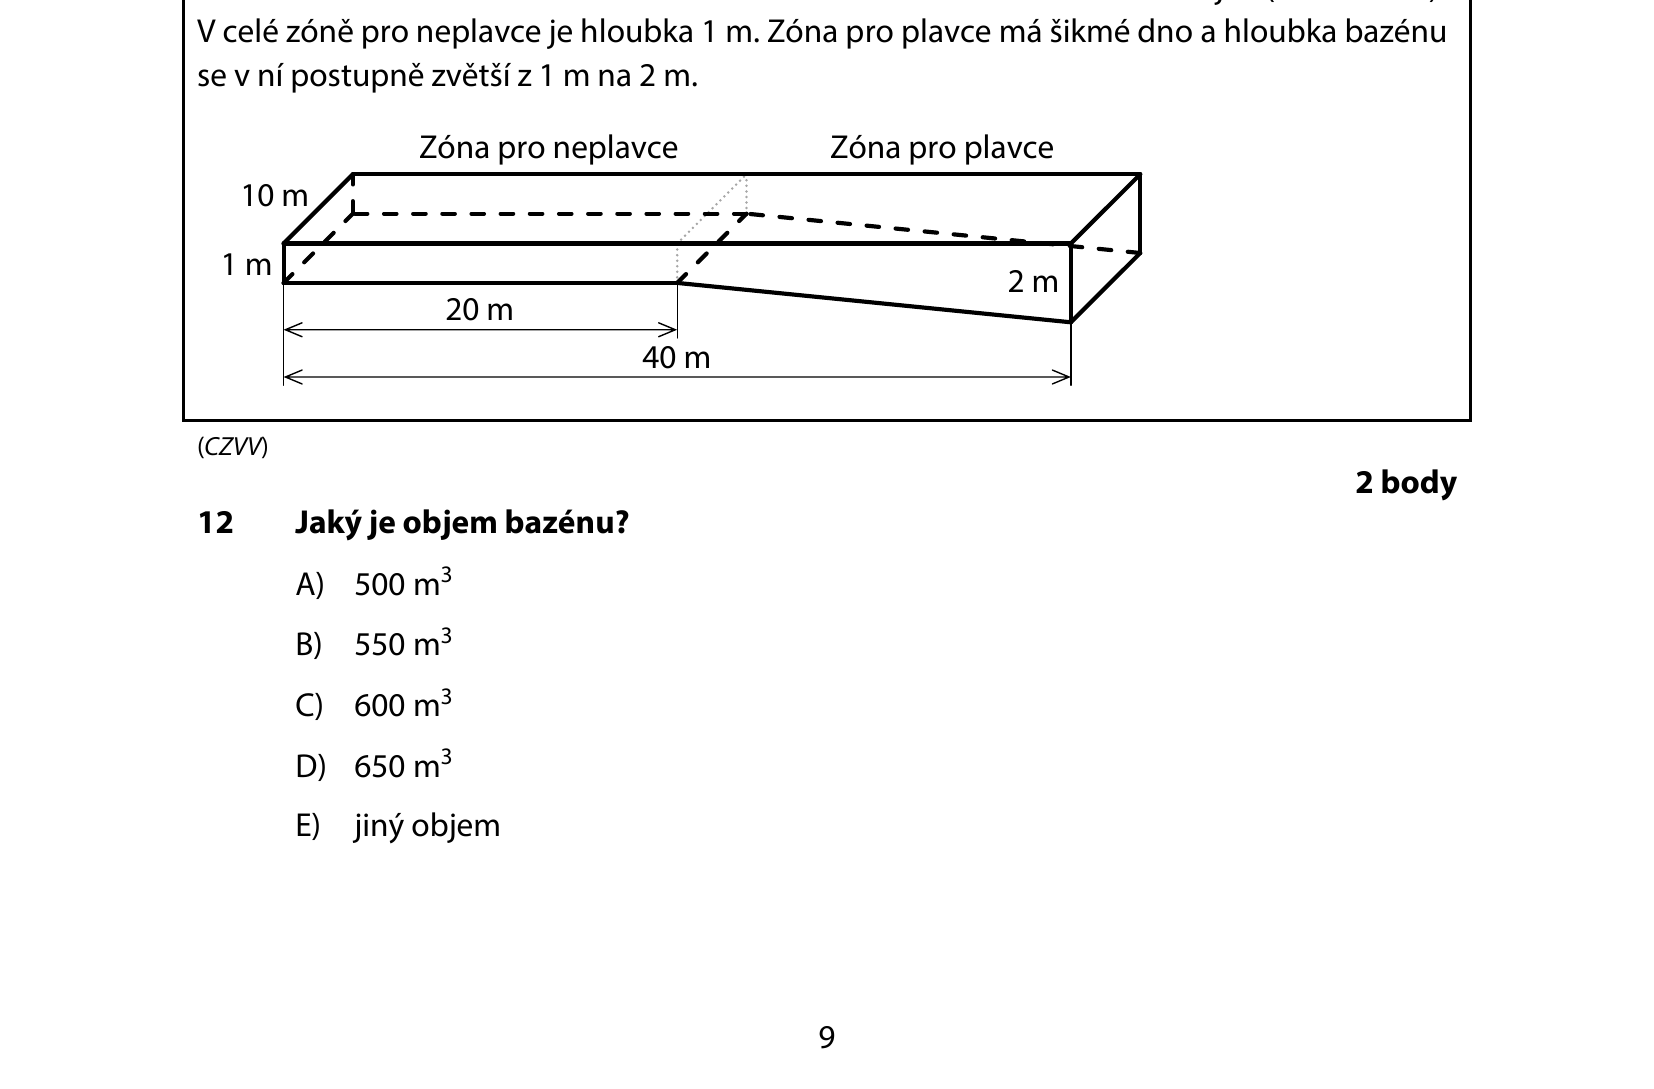
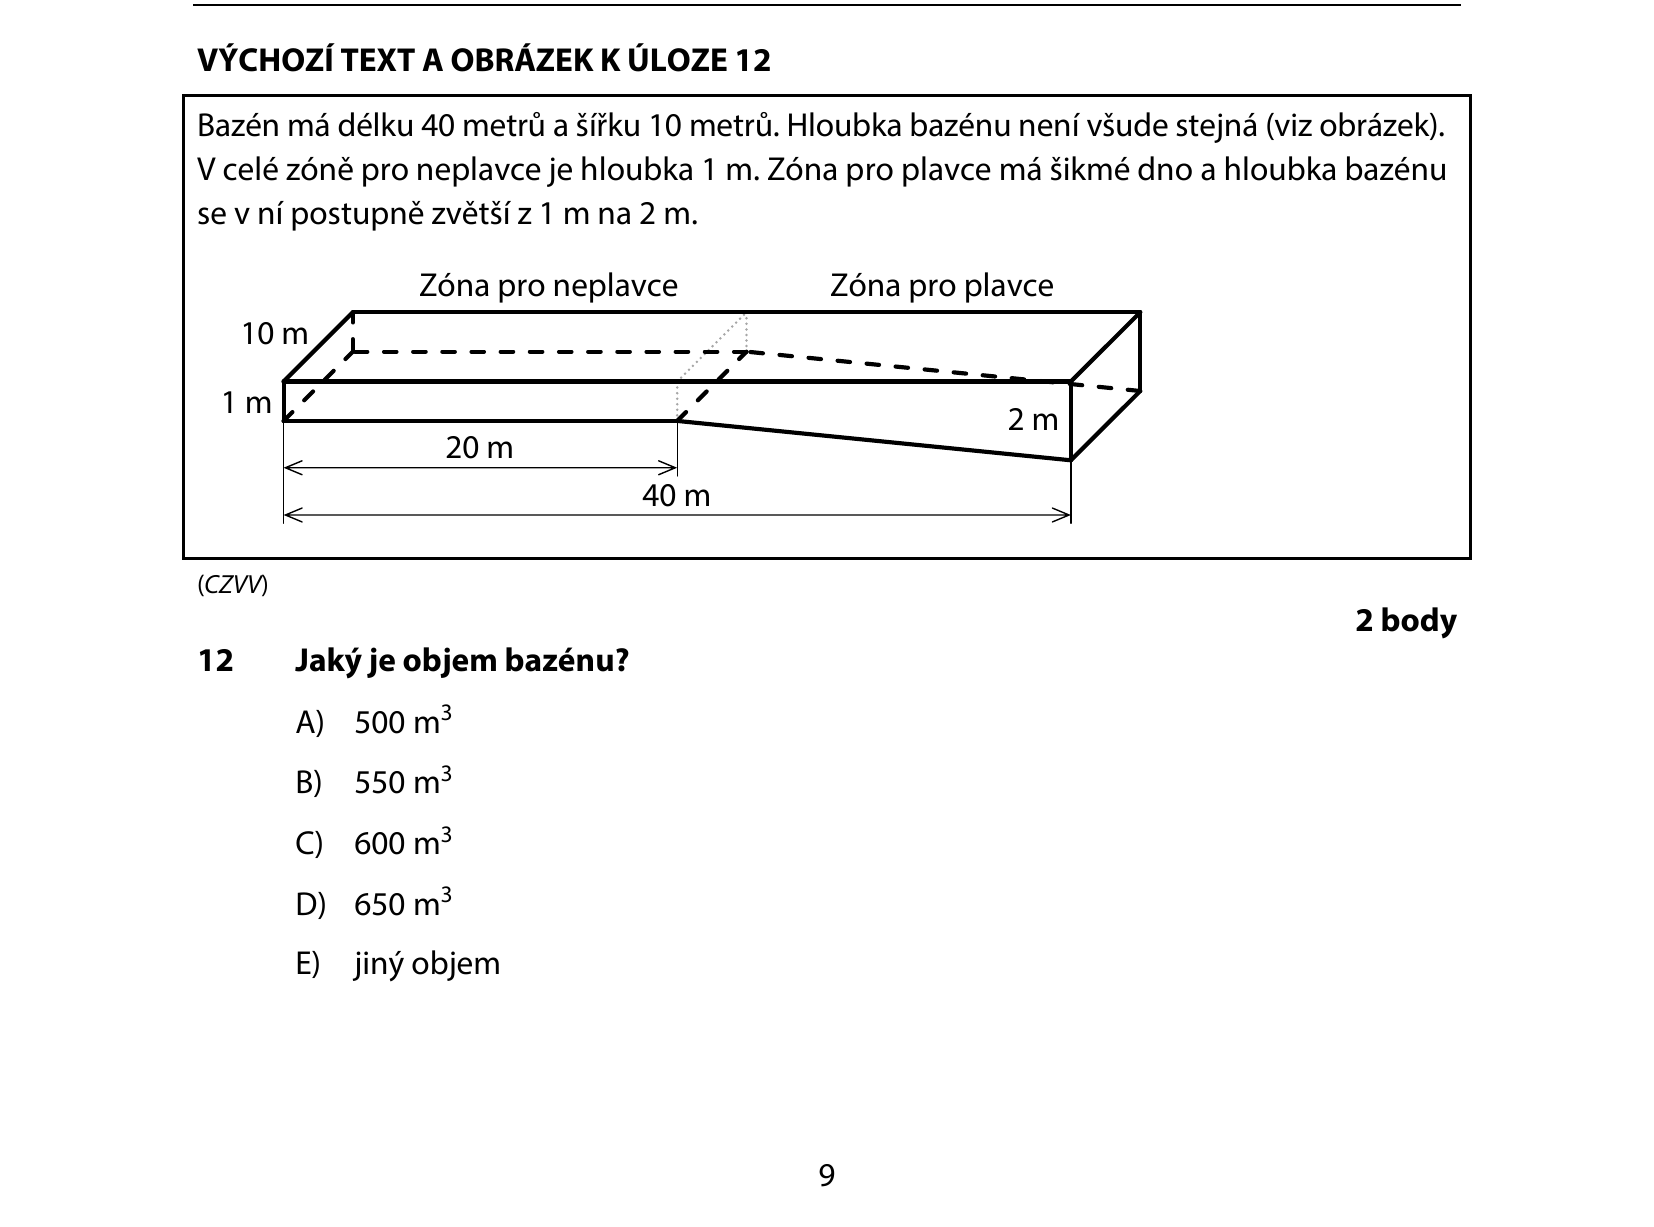
Fix crops for problems 11-14 and add findSplitRows() helper
Separator lines detected via pixel analysis:
- test-09: line at y=1116 → p11 h=1112, p12 y=1112 h=1227
- test-10: line at y=1061 → p13 h=1057, p14 y=1057 h=1282

Previous crops were off by ~150px (p11/13 too tall, p12/14 missing headers).

Also adds findSplitRows(imagePath) in seed script: reads raw pixel data,
finds rows where >60% of pixels are dark — these are the horizontal separator
lines CERMAT uses to divide problems on shared pages. Use this in future seed
scripts instead of manually guessing y-offsets.

diff --git a/scripts/seed-2025A.js b/scripts/seed-2025A.js
@@ -4,7 +4,7 @@
  * Crops pages using ImageMagick where multiple problems share a page.
  */
 import { execSync } from 'child_process';
-import { mkdirSync, existsSync } from 'fs';
+import { mkdirSync, existsSync, readFileSync } from 'fs';
 import path from 'path';
 import { fileURLToPath } from 'url';
 import { openDb, initDb } from '../server/db/schema.js';
@@ -28,6 +28,48 @@ function full(srcFile, destName) {
   return crop(path.join(SRC, srcFile), destName, 0, 0, W, 2339);
 }
 
+/**
+ * findSplitRows(imagePath) → sorted array of y-coordinates where horizontal
+ * separator lines appear. Works by reading raw PPM pixel data and counting
+ * dark pixels per row; rows where >60% of pixels are dark (value < 80)
+ * are flagged as separator candidates and deduplicated.
+ *
+ * Use this to find split points on pages with multiple problems, instead of
+ * guessing crop values manually.
+ */
+function findSplitRows(imagePath) {
+  // Convert to PPM (raw RGB) so we can parse without extra deps
+  const ppm = execSync(`convert "${imagePath}" -colorspace Gray ppm:-`);
+  // PPM header: "P6\n<W> <H>\n<maxval>\n" followed by raw bytes
+  // For grayscale we use -colorspace Gray so each pixel = 3 identical bytes (still P6)
+  let offset = 0;
+  // skip magic
+  while (ppm[offset] !== 0x0a) offset++; offset++;
+  // read W H
+  let dims = '';
+  while (ppm[offset] !== 0x0a) dims += String.fromCharCode(ppm[offset++]); offset++;
+  const [imgW, imgH] = dims.trim().split(' ').map(Number);
+  // skip maxval line
+  while (ppm[offset] !== 0x0a) offset++; offset++;
+
+  const threshold = Math.floor(imgW * 0.60); // >60% dark pixels = separator
+  const splits = [];
+  for (let y = 0; y < imgH; y++) {
+    let dark = 0;
+    for (let x = 0; x < imgW; x++) {
+      if (ppm[offset + x * 3] < 80) dark++;
+    }
+    offset += imgW * 3;
+    if (dark > threshold) splits.push(y);
+  }
+  // Deduplicate: keep first row of each consecutive run
+  const result = [];
+  for (let i = 0; i < splits.length; i++) {
+    if (i === 0 || splits[i] - splits[i - 1] > 5) result.push(splits[i]);
+  }
+  return result;
+}
+
 // ── define crops (1654×2339 pages) ────────────────────────────────────────
 // test-02: top = prob 1, middle = prob 2, bottom = start of prob 3 (header + 3.1)
 const p1_img  = crop(`${SRC}/test-02.png`, '2025-A-01.png', 0,    0, W,  750);
@@ -48,12 +90,13 @@ const p8_img  = full('test-06.png', '2025-A-08.png');
 const p9_img  = full('test-07.png', '2025-A-09.png');
 // test-08: prob 10 (construction, full)
 const p10_img = full('test-08.png', '2025-A-10.png');
-// test-09: top = prob 11 (3D shapes), bottom = prob 12 (pool)
-const p11_img = crop(`${SRC}/test-09.png`, '2025-A-11.png', 0,    0, W, 1300);
-const p12_img = crop(`${SRC}/test-09.png`, '2025-A-12.png', 0, 1250, W, 1089);
-// test-10: top = prob 13, bottom = prob 14
-const p13_img = crop(`${SRC}/test-10.png`, '2025-A-13.png', 0,    0, W, 1200);
-const p14_img = crop(`${SRC}/test-10.png`, '2025-A-14.png', 0, 1180, W, 1159);
+// test-09: separator line detected at y=1116 (findSplitRows)
+// prob 11 = above separator, prob 12 = separator + VÝCHOZÍ TEXT header + content
+const p11_img = crop(`${SRC}/test-09.png`, '2025-A-11.png', 0,    0, W, 1112);
+const p12_img = crop(`${SRC}/test-09.png`, '2025-A-12.png', 0, 1112, W, 1227);
+// test-10: separator line detected at y=1061 (findSplitRows)
+const p13_img = crop(`${SRC}/test-10.png`, '2025-A-13.png', 0,    0, W, 1057);
+const p14_img = crop(`${SRC}/test-10.png`, '2025-A-14.png', 0, 1057, W, 1282);
 // test-11: prob 15 (full)
 const p15_img = full('test-11.png', '2025-A-15.png');
 // test-12: prob 16 (crop before formula sheet at bottom)
